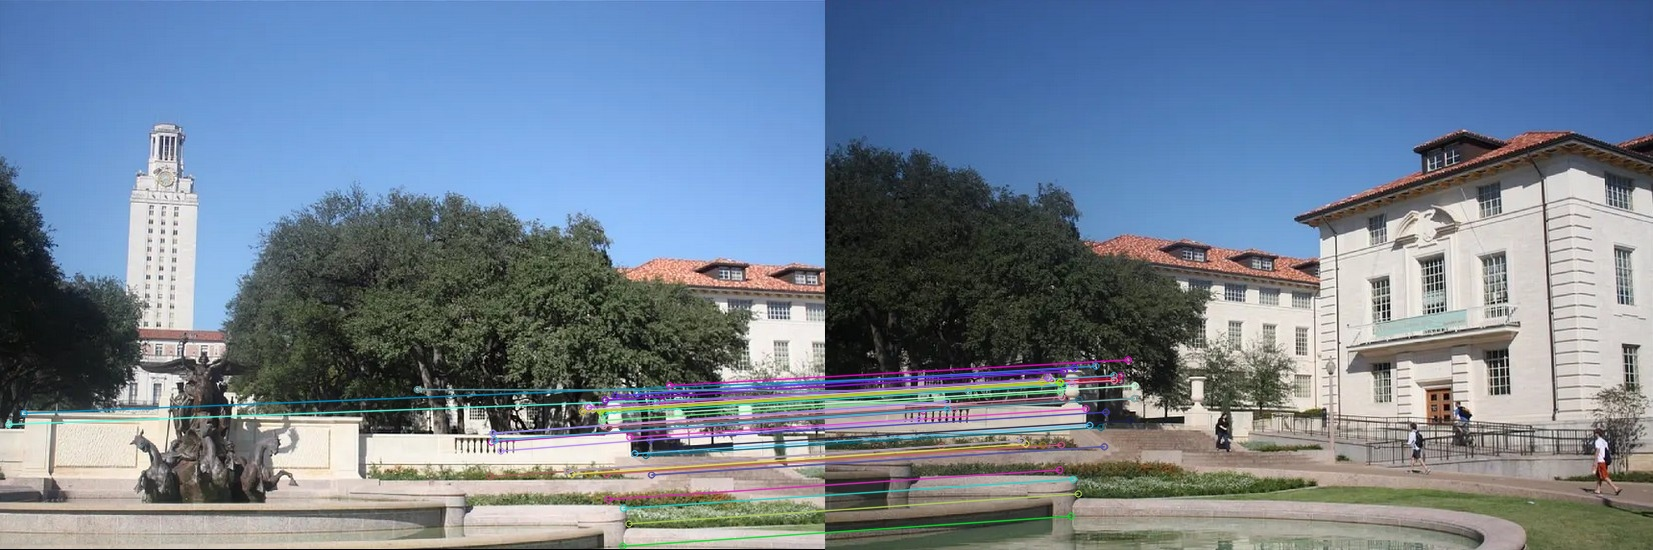
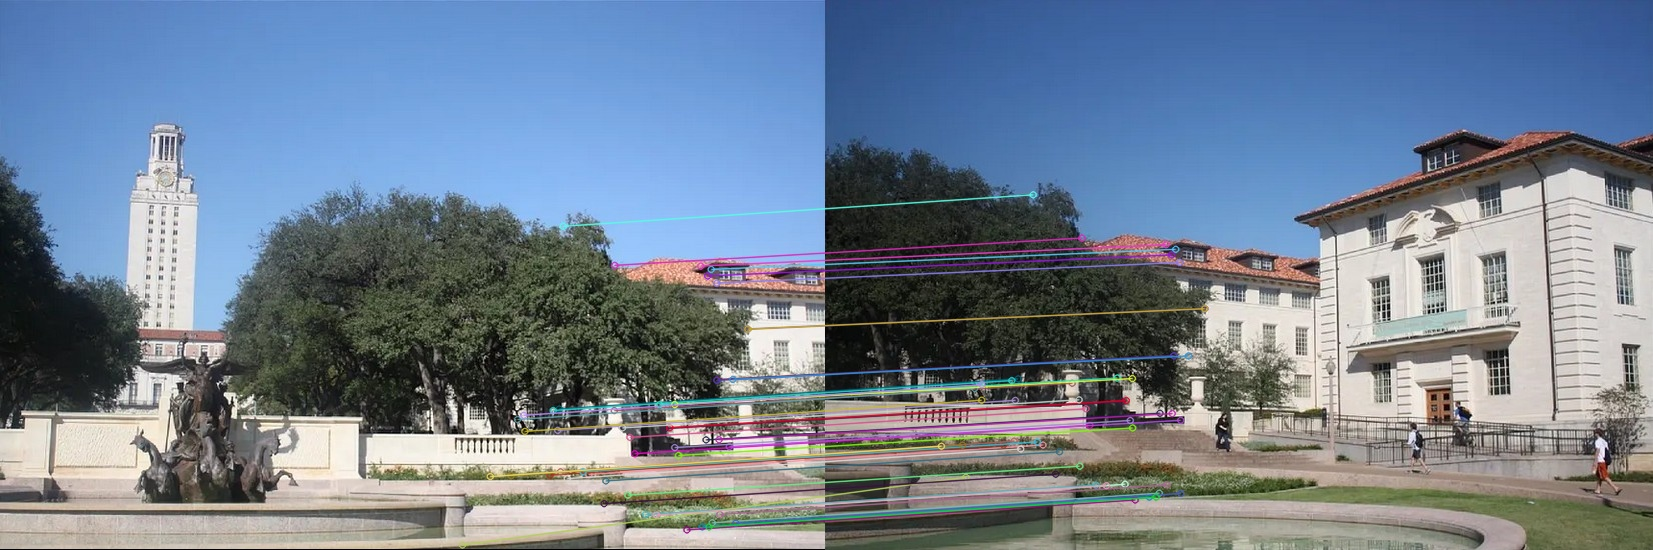
Converted stitch.cc to stitch.py

diff --git a/modules/stitch.py b/modules/stitch.py
@@ -1,0 +1,97 @@
+import cv2
+import numpy as np
+
+
+def warp_images(img1, img2, H):
+    """
+    Warp img1 to img2 using homography H and create a panorama canvas.
+    """
+
+    # Get image shapes
+    h1, w1 = img1.shape[:2]
+    h2, w2 = img2.shape[:2]
+
+    # Get corners of img1
+    corners_img1 = np.float32([
+        [0, 0],
+        [w1, 0],
+        [w1, h1],
+        [0, h1]
+    ]).reshape(-1, 1, 2)
+
+    # Warp corners
+    warped_corners_img1 = cv2.perspectiveTransform(corners_img1, H)
+
+    # Corners of img2
+    corners_img2 = np.float32([
+        [0, 0],
+        [w2, 0],
+        [w2, h2],
+        [0, h2]
+    ]).reshape(-1, 1, 2)
+
+    # Combine all corners
+    all_corners = np.vstack((warped_corners_img1, corners_img2))
+
+    # Find bounding box
+    [xmin, ymin] = np.int32(all_corners.min(axis=0).ravel())
+    [xmax, ymax] = np.int32(all_corners.max(axis=0).ravel())
+
+    # Translation matrix (to avoid negative coords)
+    translation = np.array([
+        [1, 0, -xmin],
+        [0, 1, -ymin],
+        [0, 0, 1]
+    ])
+
+    # Warp img1
+    result = cv2.warpPerspective(
+        img1,
+        translation @ H,
+        (xmax - xmin, ymax - ymin)
+    )
+
+    # Place img2 into result
+    result[-ymin:h2 - ymin, -xmin:w2 - xmin] = img2
+
+    return result
+
+
+def feather_blend(base, overlay):
+    """
+    Simple feather blending (average where both images exist)
+    """
+
+    blended = base.copy()
+
+    for y in range(base.shape[0]):
+        for x in range(base.shape[1]):
+
+            pix1 = base[y, x]
+            pix2 = overlay[y, x]
+
+            if not np.array_equal(pix2, [0, 0, 0]):
+                if np.array_equal(pix1, [0, 0, 0]):
+                    blended[y, x] = pix2
+                else:
+                    blended[y, x] = (pix1 // 2 + pix2 // 2)
+
+    return blended
+
+
+def stitch_images(img1, img2, H):
+    """
+    Complete stitching pipeline:
+    Warp + blend
+    """
+
+    # Warp first image
+    warped = warp_images(img1, img2, H)
+
+    # Create overlay image (same size)
+    overlay = warped.copy()
+
+    # Blend (simple)
+    result = feather_blend(warped, overlay)
+
+    return result

diff --git a/main.py b/main.py
@@ -12,6 +12,7 @@ from modules.feature import (
 
 from modules.matcher import match_features, draw_matches
 from modules.homography import extract_points_from_matches, compute_homography
+from modules.stitch import stitch_images
 
 import cv2
 import numpy as np
@@ -66,25 +67,30 @@ def main():
     match_img = draw_matches(img1, kp1, img2, kp2, good_matches)
     save_image("outputs/final_matches.jpg", match_img)
 
-    # Extract matched points
-    matched_src_pts, matched_dst_pts = extract_matched_points(kp1, kp2, good_matches)
-
-    print("Matched source points:", len(matched_src_pts))
-    print("Matched destination points:", len(matched_dst_pts))
-
     # Homography
     src_pts, dst_pts = extract_points_from_matches(kp1, kp2, good_matches)
     H, mask = compute_homography(src_pts, dst_pts)
-
-    np.savetxt("outputs/H.txt", H)
+    if H is None:
+        print("Homography failed! Cannot stitch.")
+        return
 
     print("Homography Matrix:\n", H)
     print("Mapping: Image1 → Image2")
     print("Inliers:", int(mask.sum()))
+    print("Inlier Ratio:", mask.sum() / len(good_matches))
 
     # RANSAC inlier matches
     inlier_matches = [m for i, m in enumerate(good_matches) if mask[i]]
     print("Good matches after RANSAC:", len(inlier_matches))
+    
+    print("Starting stitching...")
+
+    stitched = stitch_images(img1, img2, H)
+
+    # Save result
+    save_image("outputs/panorama.jpg", stitched)
+
+    
 
     inlier_img = cv2.drawMatches(
         img1,
@@ -107,6 +113,8 @@ def main():
     show_image("Keypoints Image 2", img2_kp)
     show_image("Feature Matches", match_img)
     show_image("RANSAC Inlier Matches", inlier_img)
+    # Show result
+    show_image("Stitched Panorama", stitched)
 
 
 if __name__ == "__main__":

diff --git a/modules/feature.py b/modules/feature.py
@@ -106,3 +106,8 @@ def validate_features(des1, des2):
         return False
 
     return True
+
+def log_feature_info(name, keypoints, descriptors):
+    print(f"[{name}] Keypoints: {len(keypoints)}")
+    if descriptors is not None:
+        print(f"[{name}] Descriptor shape: {descriptors.shape}")
